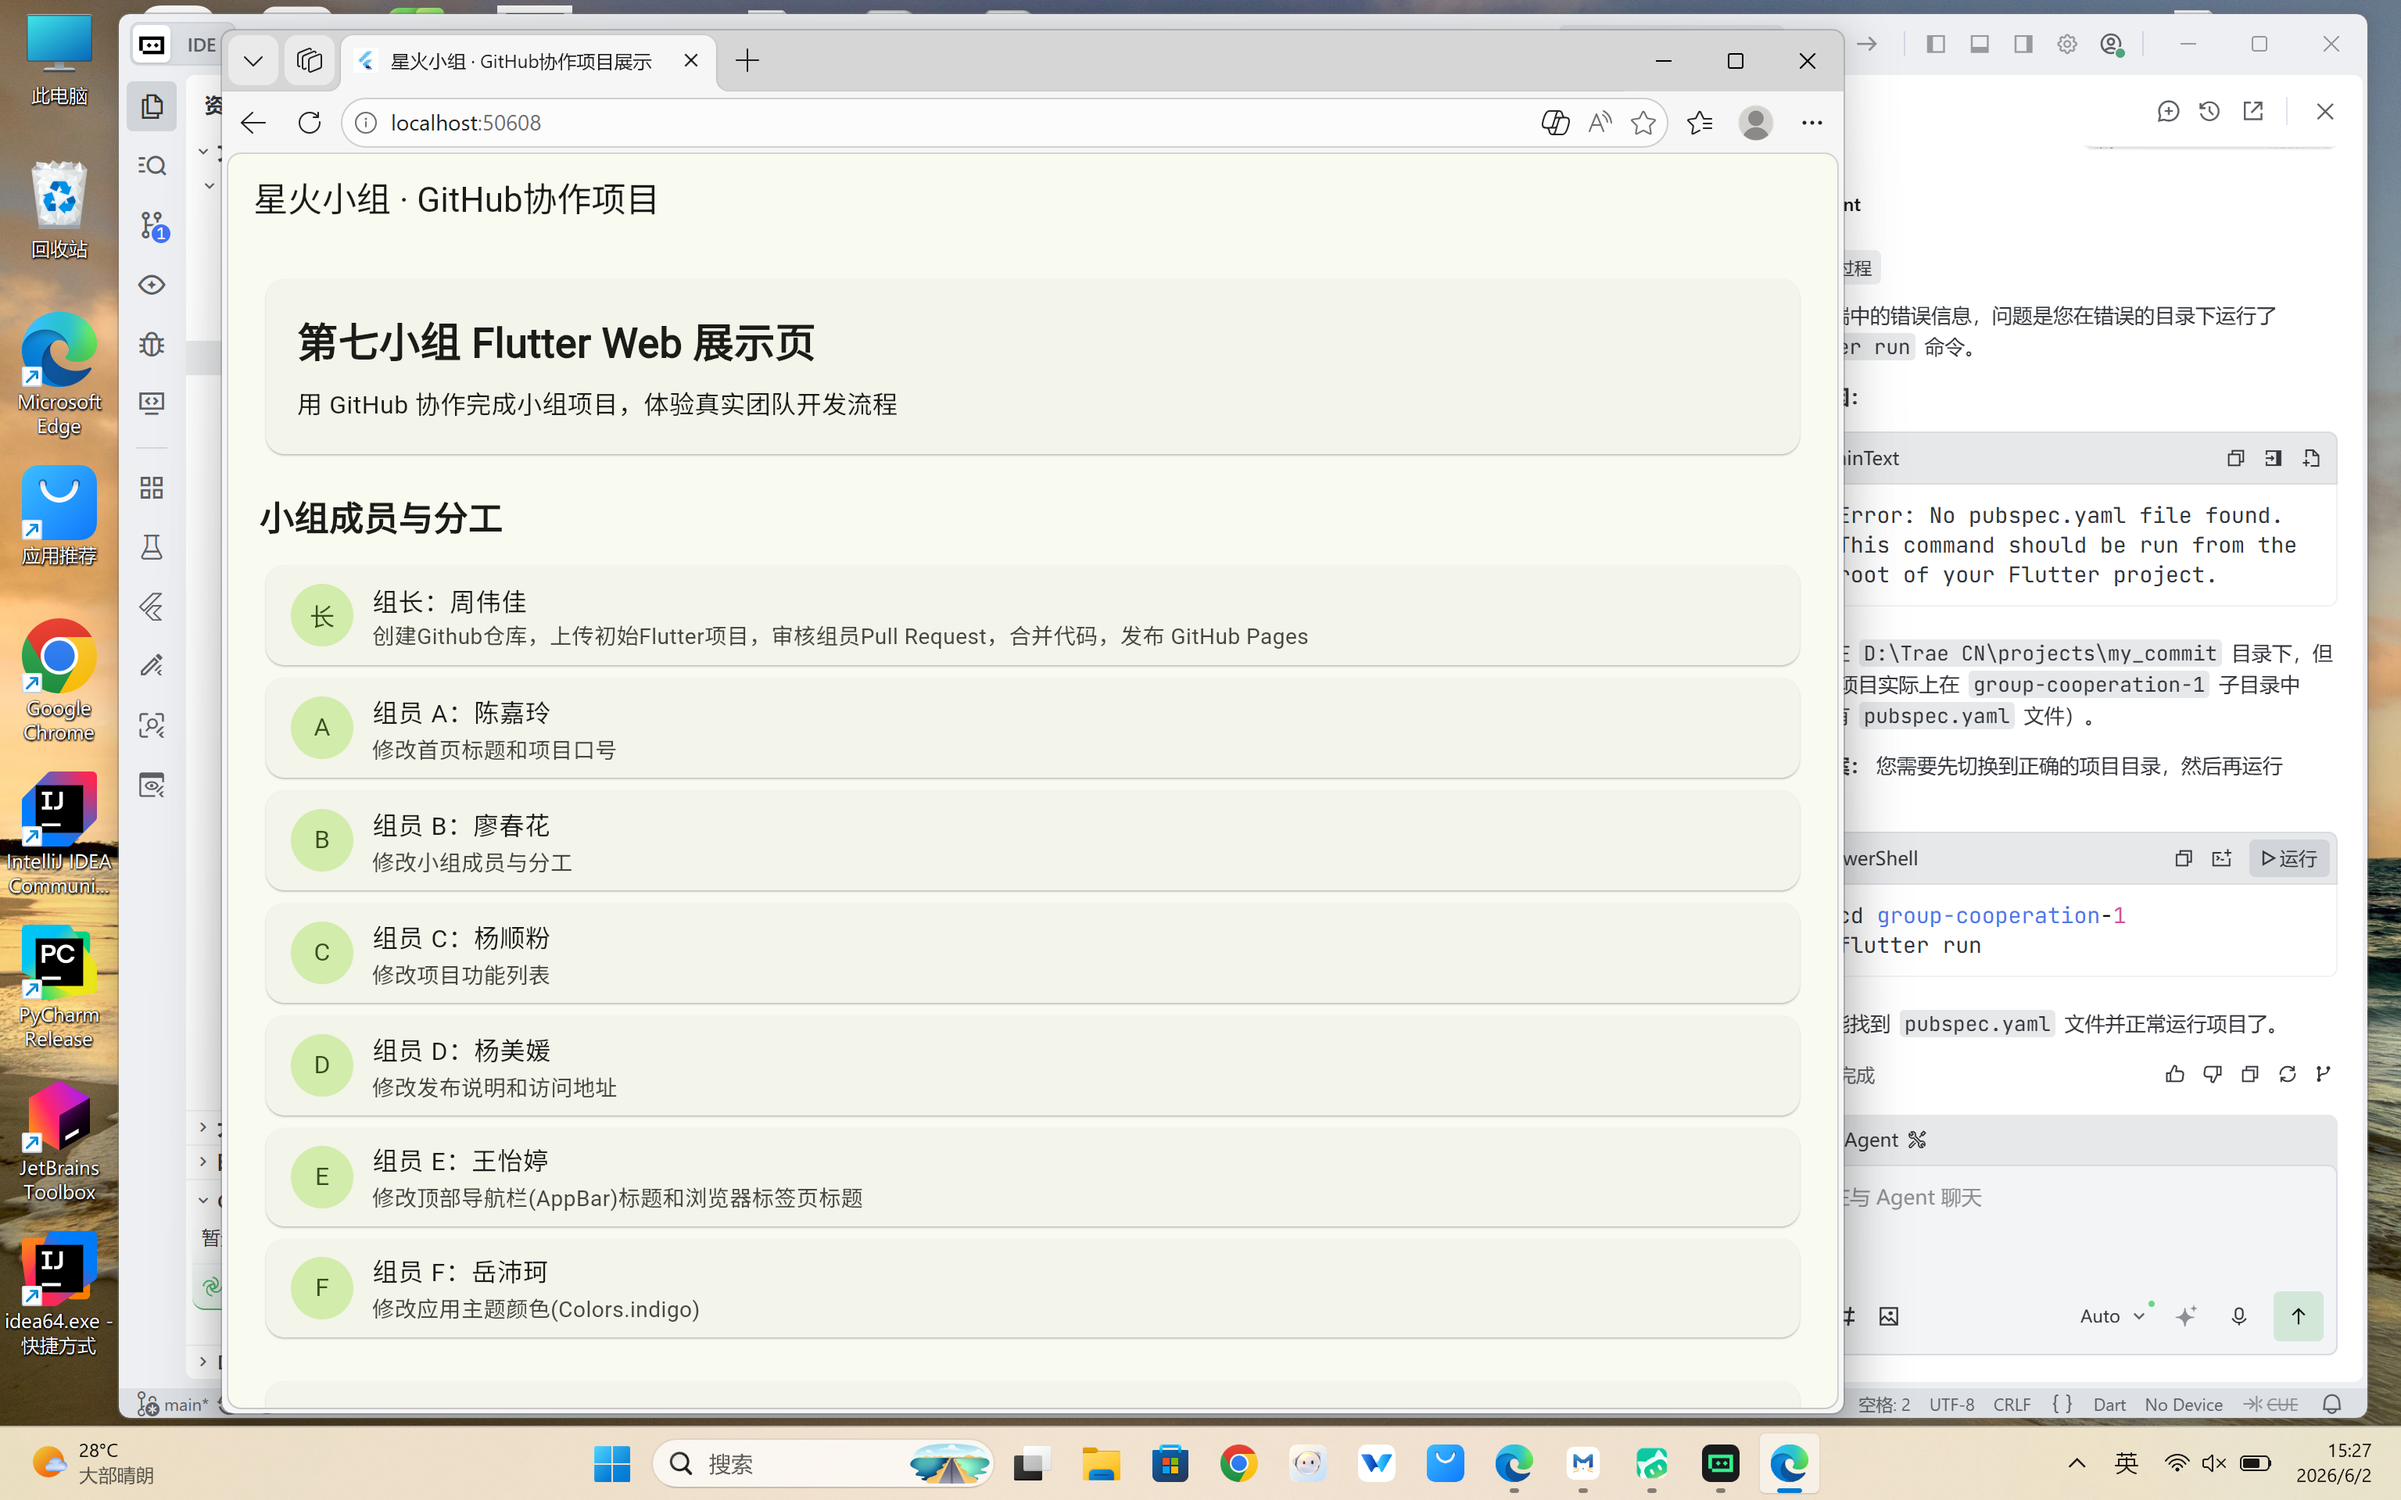
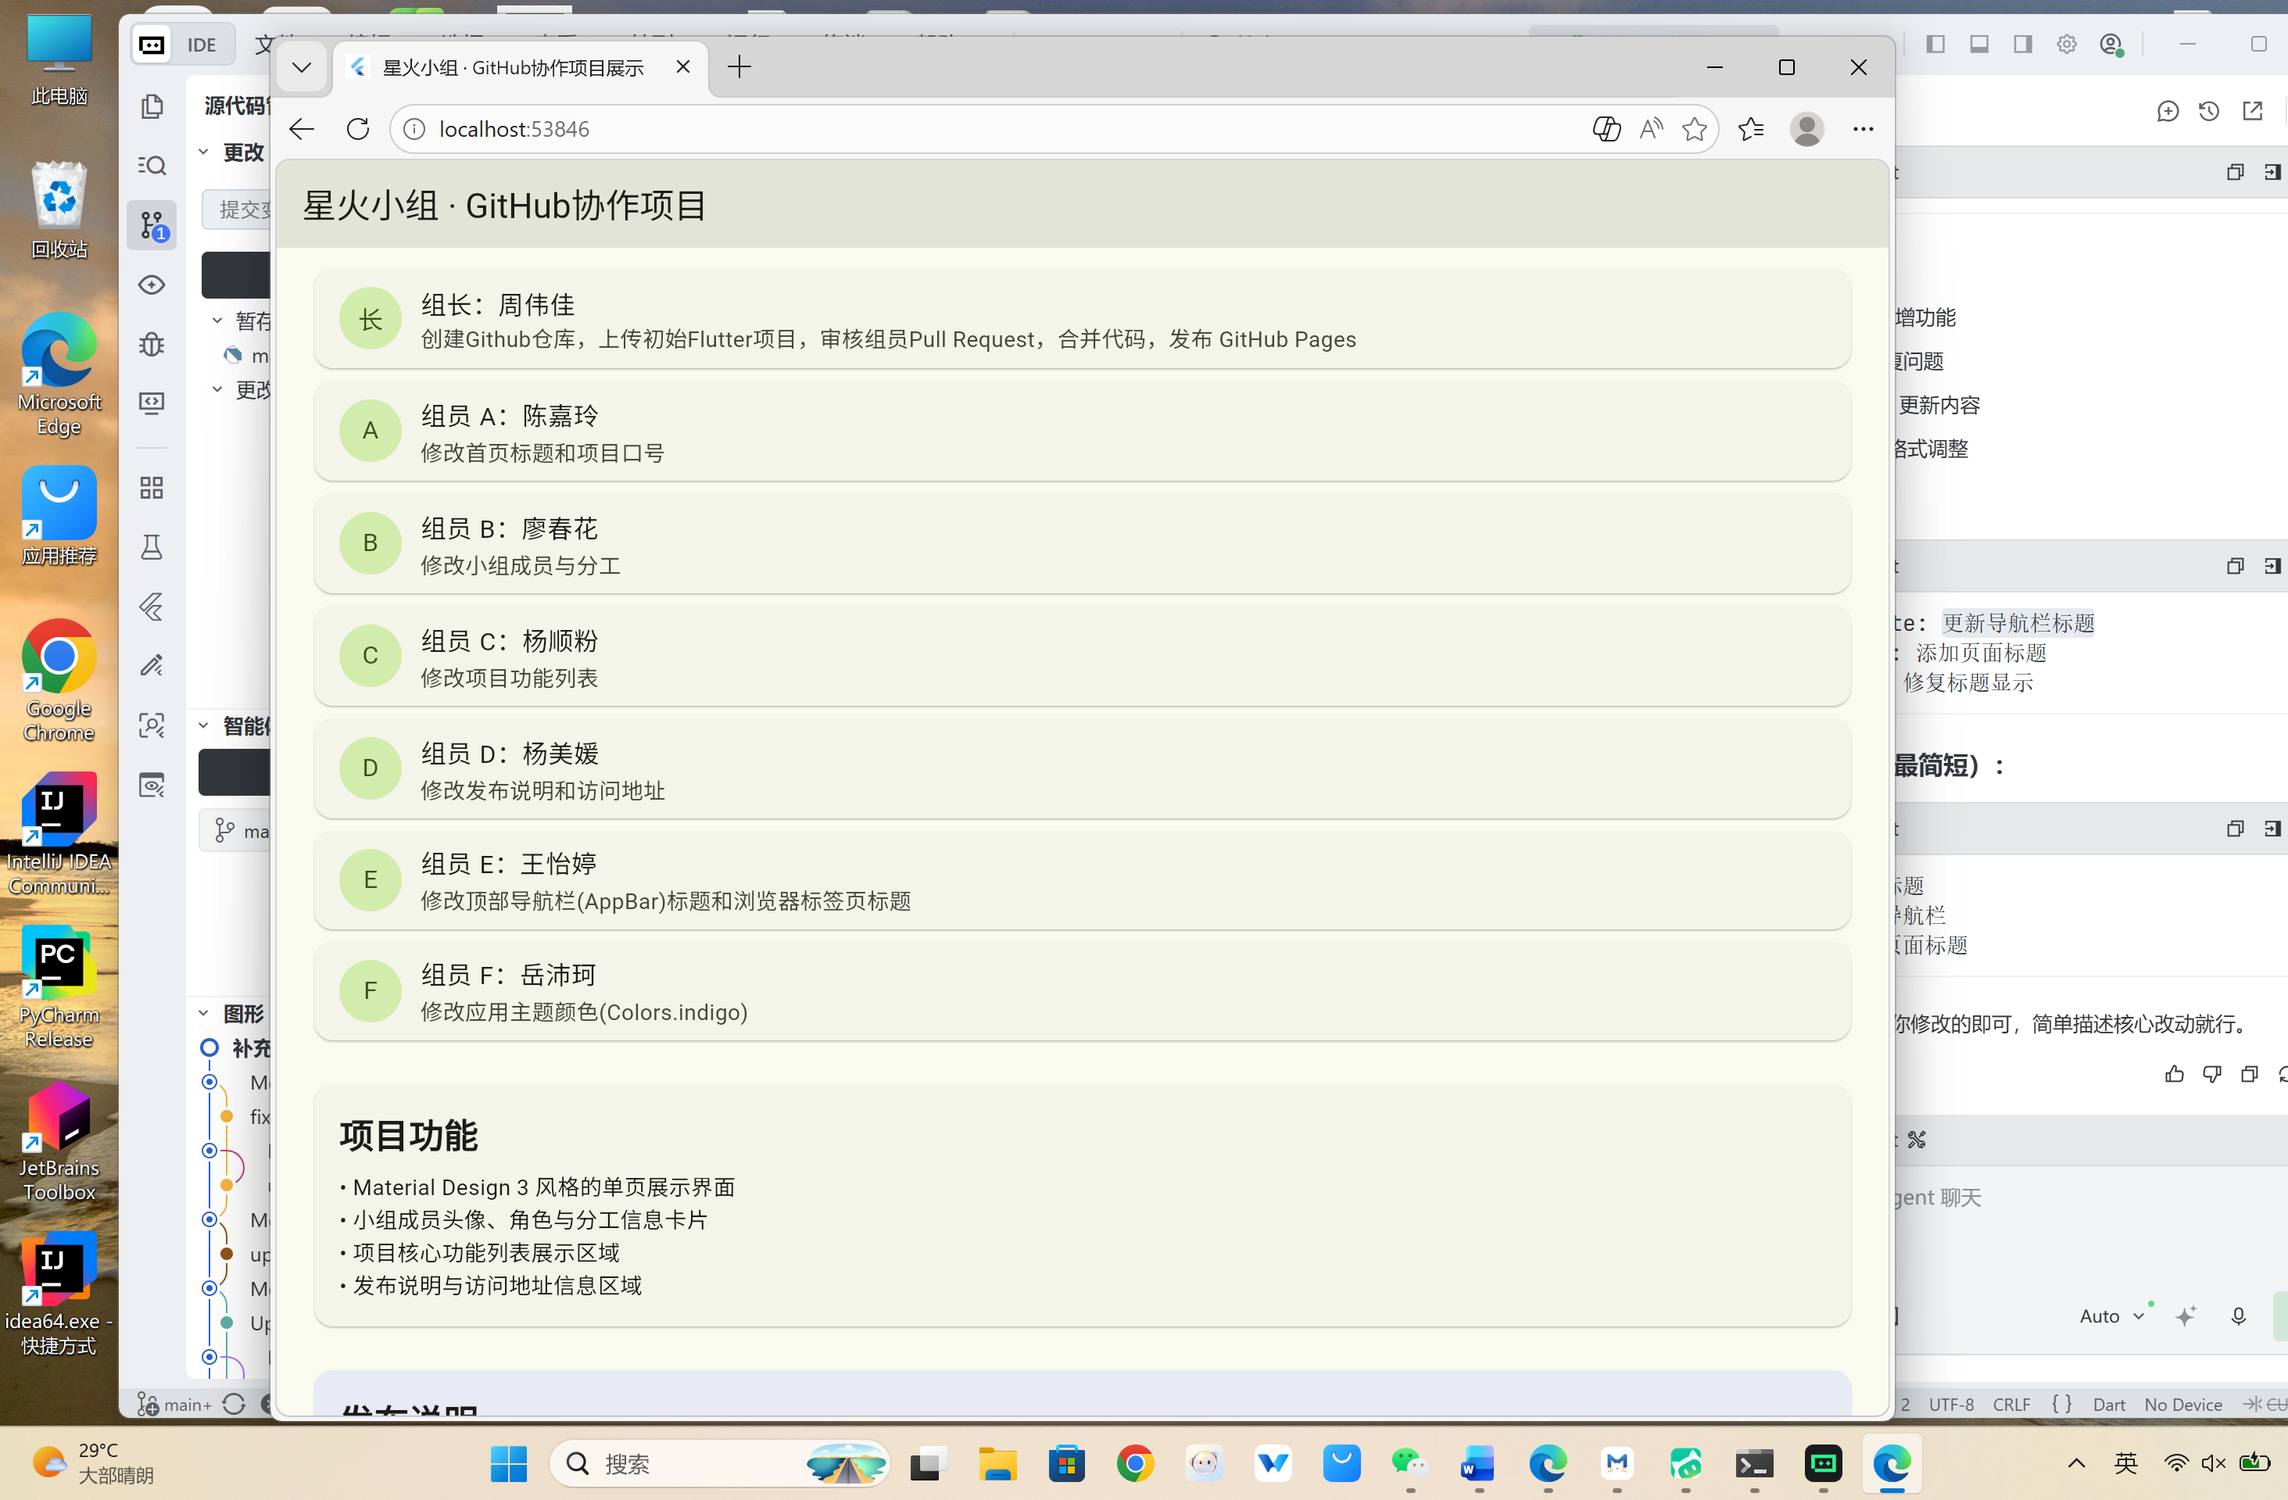
README更新与页面展示更新

diff --git a/lib/main.dart b/lib/main.dart
@@ -11,6 +11,7 @@ class GroupFlutterPagesApp extends StatelessWidget {
   Widget build(BuildContext context) {
     return MaterialApp(
       debugShowCheckedModeBanner: false,
+      // 组员 E 王怡婷 → 浏览器标签页标题
       title: '星火小组 · GitHub协作项目展示',
       theme: ThemeData(
         colorScheme: ColorScheme.fromSeed(seedColor: Colors.lightGreen),
@@ -56,7 +57,8 @@ class TeamHomePage extends StatelessWidget {
   @override
   Widget build(BuildContext context) {
     return Scaffold(
-      appBar: AppBar(title: const Text('星火小组 · github协作项目')),
+      // 组员 E 王怡婷 → 顶部导航栏(AppBar)标题
+      appBar: AppBar(title: const Text('星火小组 · GitHub协作项目')),
       body: ListView(
         padding: const EdgeInsets.all(20),
         children: const [
